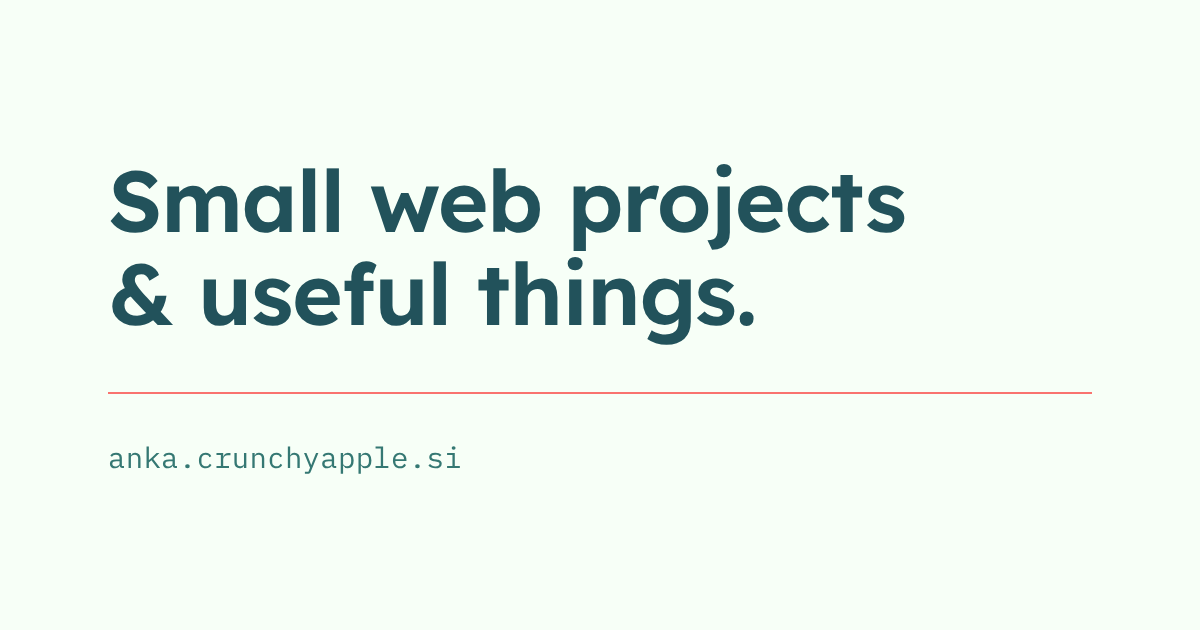
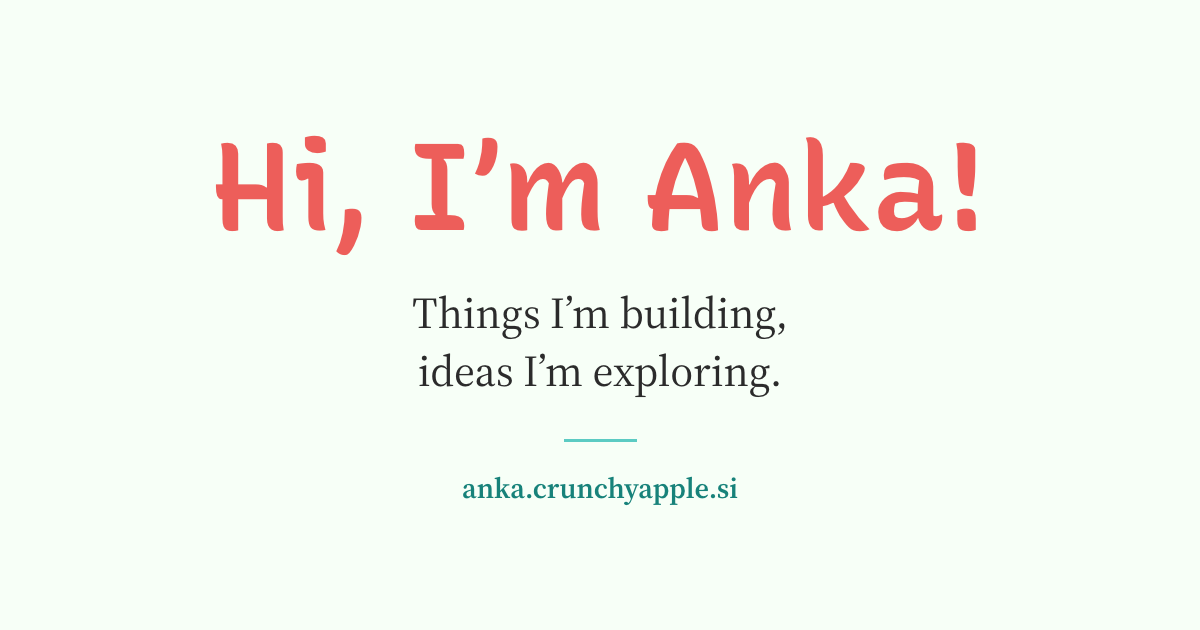
New link preview card and meta text
- Card image: greeting and tagline, centred, no photo
- New title and description for link previews

diff --git a/index.html b/index.html
@@ -3,8 +3,8 @@
 <head>
   <meta charset="utf-8">
   <meta name="viewport" content="width=device-width, initial-scale=1">
-  <title>Anka Peganc – Personal Projects &amp; Web Development</title>
-  <meta name="description" content="Hi, I’m Anka. This is where I share the apps and websites I’m building, and what I’m learning along the way.">
+  <title>Anka Peganc — Building &amp; Exploring Technology</title>
+  <meta name="description" content="My path from pharma into software — the projects I’m working on and the ideas behind them.">
   <meta name="author" content="Anka Peganc">
   <link rel="canonical" href="https://anka.crunchyapple.si/">
 
@@ -16,12 +16,12 @@
   <!-- Link preview on LinkedIn, Facebook, WhatsApp, Viber… -->
   <meta property="og:type" content="website">
   <meta property="og:url" content="https://anka.crunchyapple.si/">
-  <meta property="og:title" content="Anka Peganc – Personal Projects &amp; Web Development">
-  <meta property="og:description" content="Hi, I’m Anka. This is where I share the apps and websites I’m building, and what I’m learning along the way.">
-  <meta property="og:image" content="https://anka.crunchyapple.si/images/share-card.png">
+  <meta property="og:title" content="Anka Peganc — Building &amp; Exploring Technology">
+  <meta property="og:description" content="My path from pharma into software — the projects I’m working on and the ideas behind them.">
+  <meta property="og:image" content="https://anka.crunchyapple.si/images/share-card.png?v=3">
   <meta property="og:image:width" content="1200">
   <meta property="og:image:height" content="630">
-  <meta property="og:image:alt" content="Small web projects &amp; useful things. anka.crunchyapple.si">
+  <meta property="og:image:alt" content="Hi, I’m Anka! Things I’m building, ideas I’m exploring. anka.crunchyapple.si">
   <meta name="twitter:card" content="summary_large_image">
 
   <link rel="preload" href="fonts/source-serif-4-latin-opsz-normal.woff2" as="font" type="font/woff2" crossorigin>
